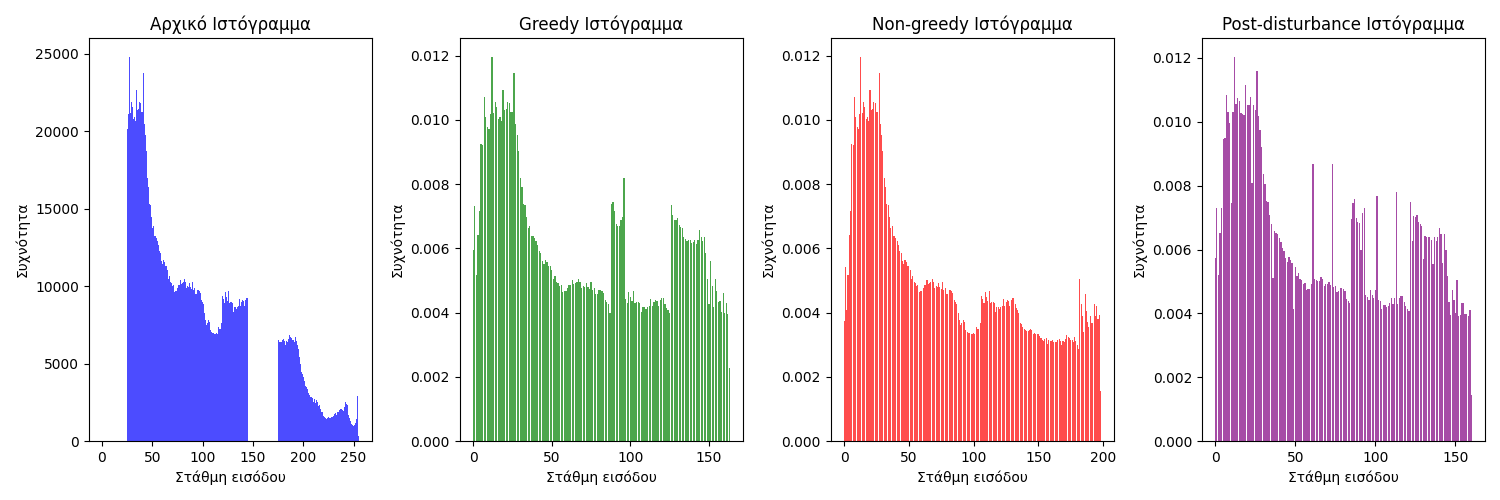
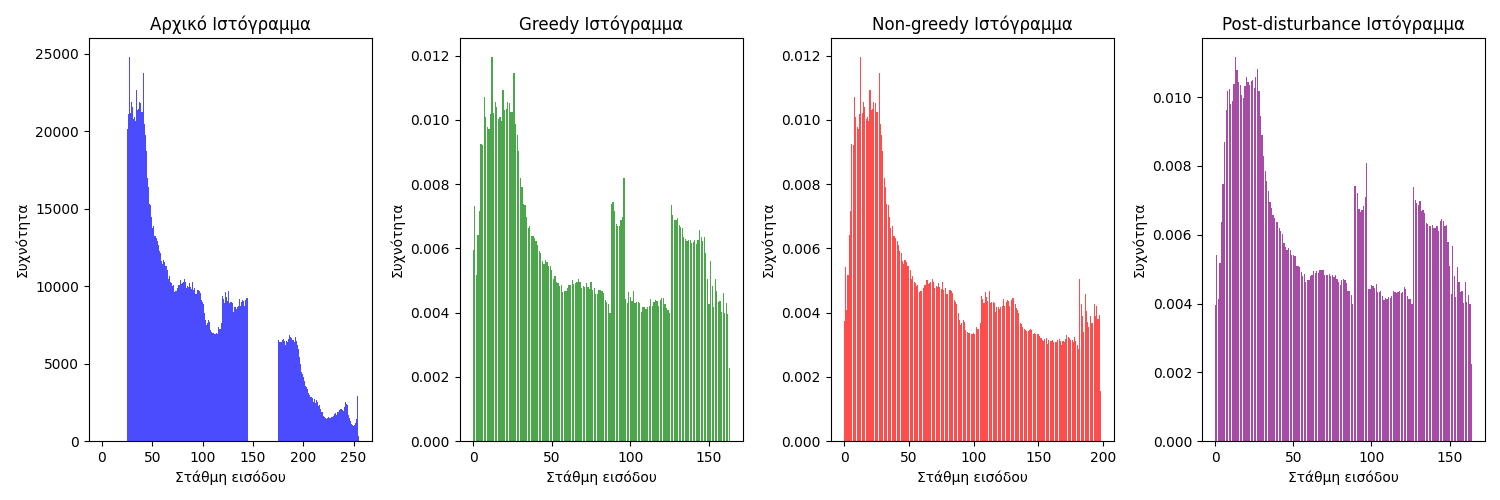
final code

Changed region(s): [[0.7667, 0.15, 0.9813, 0.93], [0.7667, 0.24, 0.7973, 0.27], [0.7667, 0.09, 0.7973, 0.12]]

diff --git a/1st_assignment/equalization.py b/1st_assignment/equalization.py
@@ -149,47 +149,42 @@ def nongreedy(img_array: np.ndarray, hist: Dict, hist_ref: Dict) -> Dict:
 
 def post_disturbance(img_array: np.ndarray, hist: dict, hist_ref: dict) -> np.ndarray:
     """
-        Applies a post-disturbance histogram modification approach using noise disturbance.
+    Applies histogram modification after introducing uniform random noise to disturb the pixel values.
 
-        This function adds uniform noise to disturb the original image, quantizes the disturbed image, computes
-        the histogram and then applies the greedy histogram modification to the quantized image.
+    This function adds noise over the full bucket width, quantizes the disturbed image, computes its histogram,
+    and then applies the greedy approach to compute and apply a transformation mapping. This allows pixels from a densely
+    populated input level to spread into neighboring levels.
 
-        Parameters:
-            img_array (np.ndarray): The input image array.
-            hist (dict): The histogram of the input image (non-normalized).
-            hist_ref (dict): The reference normalized histogram for modification.
+    Parameters:
+        img_array (np.ndarray): Input image array with normalized values in [0, 1].
+        hist (dict): Histogram of the original image (counts per intensity level).
+        hist_ref (dict): Reference histogram normalized values for matching or None for equalization.
 
-        Returns:
-            np.ndarray: The processed image after histogram matching.
-        """
-    # Obtain original intensity levels and compute the difference between consecutive levels.
+    Returns:
+        np.ndarray: Histogram modified image.
+    """
+    # Get unique intensity levels and compute level spacing (assumes equal spacing).
     orig_levels = np.unique(img_array)
     d = orig_levels[1] - orig_levels[0]
 
-    # Add uniform random noise to disturb the image.
-    noise = np.random.uniform(low=-d / 2, high=d / 2, size=img_array.shape)
+    # Add uniform noise in the full bucket width [-d, d] to disturb the image.
+    noise = np.random.uniform(low=-d, high=d, size=img_array.shape)
     disturbed_image = img_array + noise
 
-    # Define valid value range and clip the disturbed image.
-    min_val = orig_levels[0] - d / 2
-    max_val = orig_levels[-1] + d / 2
-    disturbed_image = np.clip(disturbed_image, min_val, max_val)
+    # Clip the disturbed image to ensure pixel values remain within [0, 1].
+    disturbed_image = np.clip(disturbed_image, 0, 1)
 
-    # Round values to aid in quantization.
-    disturbed_image = np.round(disturbed_image, 3)
+    # Quantize the disturbed image by rounding each pixel to the nearest original intensity level.
+    quantized_image = np.round(disturbed_image / d) * d
+    quantized_image = np.clip(quantized_image, 0, 1)
 
-    # Quantize the image by mapping disturbed pixel values back to the nearest original level.
-    quantized_image = disturbed_image.copy()
-    for level in orig_levels:
-        mask = np.abs(disturbed_image - level) < d / 2
-        quantized_image[mask] = level
-
-    # Calculate the histogram of the quantized image.
+    # Compute the histogram of the quantized (disturbed) image.
     disturbed_hist = calculate_hist_of_img(quantized_image, return_normalized=False)
 
-    # Compute the transformation using the greedy method.
+    # Compute the transformation mapping using the greedy approach and the disturbed histogram.
     modification_transform = greedy(quantized_image, disturbed_hist, hist_ref)
 
-    # Apply the transformation to get the final matched image.
-    matched_image = apply_hist_modification_transform(quantized_image, modification_transform)
-    return matched_image
+    # Apply the transformation mapping to get the final modified image.
+    modified_img = apply_hist_modification_transform(quantized_image, modification_transform)
+
+    return modified_img

diff --git a/1st_assignment/hist_utils.py b/1st_assignment/hist_utils.py
@@ -11,29 +11,25 @@ def calculate_hist_of_img(img_array: np.ndarray, return_normalized: bool) -> Dic
 
     Parameters:
         img_array (np.ndarray): The input image array.
-        return_normalized (bool): Flag to indicate if the histogram should be normalized.
+        return_normalized (bool): Whether to normalize the histogram.
 
     Returns:
-        Dict: A dictionary with intensity values as keys and counts or normalized frequencies as values.
+        Dict: A histogram dictionary with intensity values as keys.
     """
-    hist = {}  # Initialize the histogram dictionary
+    hist = {}
 
-    # Get all unique intensity values in the image
-    unique_values = np.unique(img_array)
+    # Flatten the image so we can work with 1D array
+    flat_img = img_array.flatten()
 
-    total_samples = img_array.size  # Total number of pixels
+    # Get unique values and their counts
+    unique_values = np.unique(flat_img)
 
-    # Iterate over each unique intensity value
+    total_samples = flat_img.size
+
     for value in unique_values:
-        count = 0  # Initialize counter for current intensity
-        # Loop through each row
-        for row in img_array:
-            # Loop through each element in the row
-            for element in row:
-                if element == value:
-                    count += 1  # Increase count if element equals the current value
+        # Count occurrences using boolean masking
+        count = np.sum(flat_img == value)
 
-        # Store count or normalized frequency in the histogram
         if return_normalized:
             hist[value] = count / total_samples
         else:

diff --git a/1st_assignment/demo.py b/1st_assignment/demo.py
@@ -16,7 +16,7 @@ img = Image.open(fp=filename)
 bw_img = img.convert("L")
 img_array = np.array(bw_img).astype(float) / 255.0
 
-filename2 = "../images/input_img.jpg"
+filename2 = "../images/ref_img.jpg"
 img2 = Image.open(fp=filename2)
 bw_img2 = img2.convert("L")
 img_array2 = np.array(bw_img2).astype(float) / 255.0
